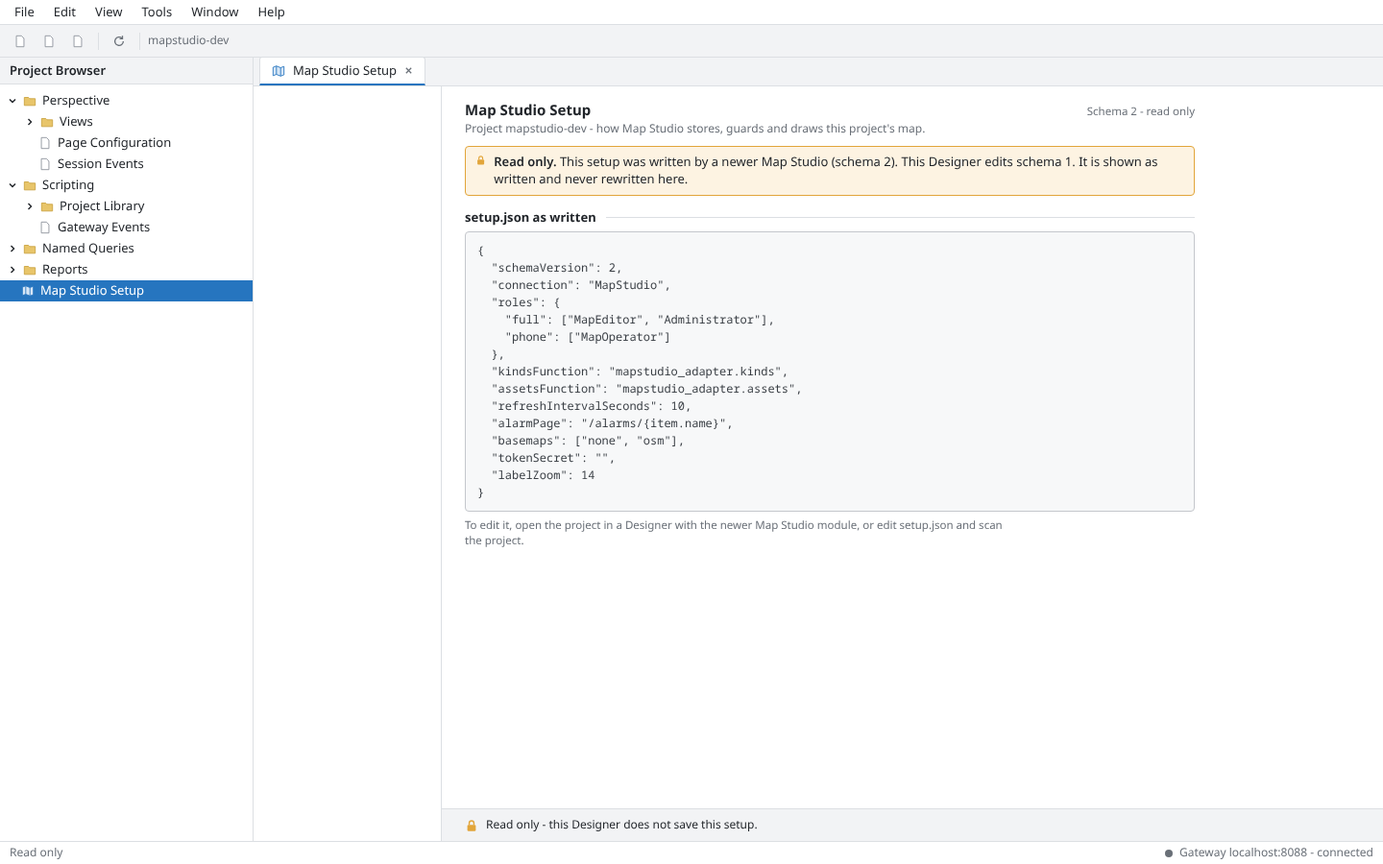
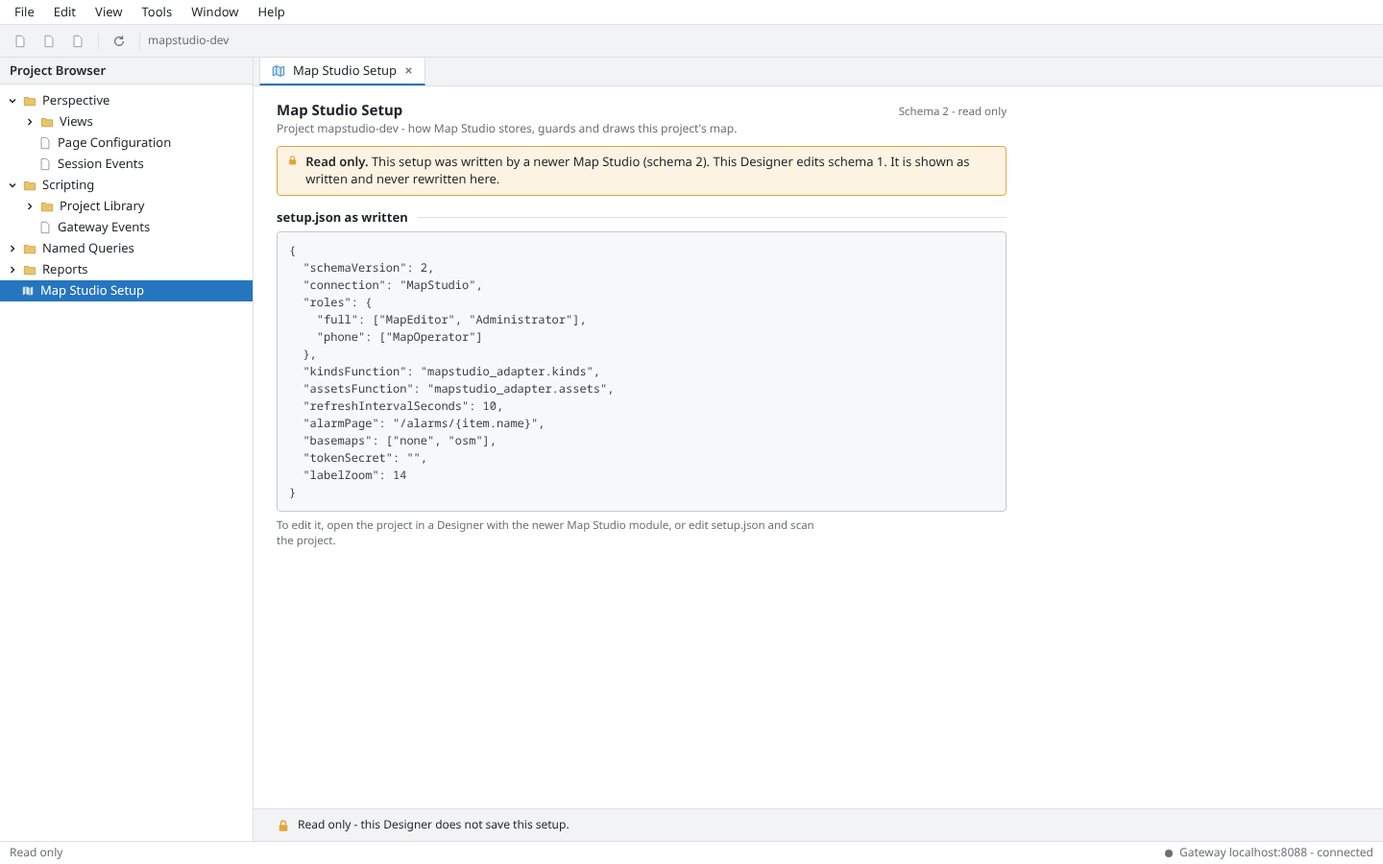
UX: Map Studio Setup tab drops the section list - the form alone
Owner decision 2026-10-27: the form fits one Designer window and the
footer counts reasons and warnings, so the left section list only added a
column. The footer's "N reasons left" scrolls to the first reason.
Mockup and all eight state PNGs re-rendered at 1440 x 900; EXPERIENCE.md,
DESIGN.md (designer-section-list token removed) and the memlog updated.

Claude-Session: https://claude.ai/code/session_01DVAVWyHFvLKQeaRZ7Pw3zR

diff --git a/_bmad-output/initiative-flowmap/ux-map-studio/mockups/designer-setup-form.html b/_bmad-output/initiative-flowmap/ux-map-studio/mockups/designer-setup-form.html
@@ -11,7 +11,8 @@
    (designer-* tokens). The Swing form reads the keys; these hex values are only the
    mock's stand-ins for the Designer's light theme. Render one state with ?v=STATE:
    normal, reasons, unreachable, inherited, newer, picker, empty, new.
-   There is no create dialog: empty and new are the same tab. */
+   There is no create dialog: empty and new are the same tab.
+   No section list (owner, 2026-10-27): the tab body is the form alone, left aligned. */
 :root {
   --d-panel: #f2f3f5;          /* Panel.background */
   --d-surface: #ffffff;        /* TextField.background, Tree.background */
@@ -54,14 +55,8 @@ body { background: var(--d-panel); color: var(--d-text); font: 13px/1.35 var(--f
 .tabs { height: 30px; display: flex; align-items: flex-end; padding-left: 6px; border-bottom: 1px solid var(--d-divider); }
 .tab { height: 30px; padding: 0 12px; display: flex; align-items: center; gap: 8px; background: var(--d-surface); border: 1px solid var(--d-divider); border-bottom: 2px solid var(--d-accent); border-top-left-radius: 3px; border-top-right-radius: 3px; }
 .tab .x { color: var(--d-text-2); }
-.tabbody { flex: 1; display: grid; grid-template-columns: 196px 1fr; min-height: 0; background: var(--d-surface); }
-.cats { border-right: 1px solid var(--d-divider); padding: 10px 0; background: var(--d-surface); }
-.cats div { height: 26px; padding: 0 12px; display: flex; align-items: center; justify-content: space-between; }
-.cats .on { background: var(--d-accent-tint); }
-.cats .count { display: inline-flex; align-items: center; gap: 3px; font-size: 12px; }
-.cats .count.err { color: var(--d-error); } .cats .count.warn { color: var(--d-warning); }
-.cats.off div { color: var(--d-text-2); }
-.formwrap { display: flex; flex-direction: column; min-height: 0; }
+.tabbody { flex: 1; display: flex; flex-direction: column; min-height: 0; background: var(--d-surface); }
+.formwrap { flex: 1; display: flex; flex-direction: column; min-height: 0; }
 .scroll { flex: 1; overflow: hidden; position: relative; padding: 14px 24px 0 24px; }
 .scrollbar { position: absolute; right: 2px; top: 4px; width: 8px; height: 82%; border-radius: 4px; background: #cfd3d8; display: none; }
 .hdr { display: flex; align-items: baseline; justify-content: space-between; max-width: 760px; }
@@ -129,6 +124,7 @@ section h2::after { content: ''; flex: 1; height: 1px; background: var(--d-divid
 .newtag i { width: 7px; height: 7px; border-radius: 50%; background: var(--d-accent); display: inline-block; }
 .footer .link { margin-left: auto; color: var(--d-accent); white-space: nowrap; }
 .footer .note { color: var(--d-text-2); }
+.footer .jump { text-decoration: underline; text-underline-offset: 2px; cursor: pointer; }
 .footer span { white-space: nowrap; }
 .ctxmenu { position: absolute; background: var(--d-surface); border: 1px solid var(--d-border); border-radius: 4px; box-shadow: 0 4px 14px rgba(0,0,0,.16); padding: 4px 0; font-size: 12.5px; z-index: 5; width: 168px; }
 .ctxmenu div { height: 24px; padding: 0 12px; display: flex; align-items: center; }
@@ -172,7 +168,7 @@ const base = {
   basemaps: { none: true, osm: true, satellite: false, mapbox: false },
   alarm: { v: '/alarms/{item.name}', state: 'ok' },
   secretProvider: '', secretName: '',
-  msgs: {}, counts: {},
+  msgs: {},
 };
 const states = {
   normal: {},
@@ -189,7 +185,6 @@ const states = {
       phone: [['err', 'MapOperator is listed twice.']],
       refresh: [['err', 'refreshIntervalSeconds must be a whole number from 1 to 3600, not 0.']],
     },
-    counts: { store: ['warn', 1], who: ['err', 1, 1], kinds: ['err', 1] },
   },
   unreachable: { gwDown: true, connection: { v: 'MapStudio', state: 'down' } },
   newer: { readonly: true },
@@ -203,7 +198,6 @@ const states = {
     assets: { v: '', state: '' },
     alarm: { v: '', state: '' },
     msgs: { connection: [['err', 'Name the database connection Map Studio stores the map in.']] },
-    counts: { store: ['err', 1] },
   },
 };
 const v = new URLSearchParams(location.search).get('v') || 'normal';
@@ -234,13 +228,6 @@ function chips(list, key, opts = {}) {
 function row(label, ctl, help, key, top) {
   return `<div class="row"><label>${label}</label><div><div class="ctl">${ctl}</div>${msgs(key)}${help ? `<div class="help">${help}</div>` : ''}</div></div>`;
 }
-function catCount(k) {
-  const c = S.counts[k];
-  if (!c) return '';
-  if (c.length === 3) return `<span class="count err">${I.err}${c[1]}</span><span class="count warn" style="margin-left:6px">${I.warn}${c[2]}</span>`;
-  return `<span class="count ${c[0]}">${c[0] === 'err' ? I.err : I.warn}${c[1]}</span>`;
-}
-function wrapCount(k) { const h = catCount(k); return h ? `<span style="display:inline-flex">${h}</span>` : ''; }
 
 const reasonsLeft = Object.values(S.msgs).flat().filter(m => m[0] === 'err').length;
 const warningsLeft = Object.values(S.msgs).flat().filter(m => m[0] === 'warn').length;
@@ -304,15 +291,12 @@ if (S.none) {
 const footer = S.none
   ? `<div class="footer"><span class="note">No setup in this project.</span></div>`
   : S.isNew
-  ? `<div class="footer err">${I.err}<span>${reasonsLeft} reason left - this setup is not saved until it is fixed.</span><span class="note" style="margin-left:6px">File &gt; Save shows the Designer's standard save failure.</span><span class="link">Discard new setup</span></div>`
+  ? `<div class="footer err">${I.err}<span><span class="jump" title="Go to the first reason">${reasonsLeft} reason left</span> - this setup is not saved until it is fixed.</span><span class="note" style="margin-left:6px">File &gt; Save shows the Designer's standard save failure.</span><span class="link">Discard new setup</span></div>`
   : S.readonly
   ? `<div class="footer">${I.lock}<span>Read only - this Designer does not save this setup.</span></div>`
   : reasonsLeft
-    ? `<div class="footer err">${I.err}<span>${reasonsLeft} reasons left - this setup is not saved until they are fixed.</span><span style="color:var(--d-text-2);margin-left:6px">${warningsLeft} warnings do not stop a save.</span></div>`
+    ? `<div class="footer err">${I.err}<span><span class="jump" title="Go to the first reason">${reasonsLeft} reasons left</span> - this setup is not saved until they are fixed.</span><span style="color:var(--d-text-2);margin-left:6px">${warningsLeft} warnings do not stop a save.</span></div>`
     : `<div class="footer">${I.check}<span>Saves with the project (File &gt; Save).</span></div>`;
-
-const cats = (S.readonly || S.none) ? '' : [['store', 'Map store'], ['who', 'Who can edit'], ['kinds', 'Kinds and assets'], ['map', 'Map']]
-  .map(([k, l], i) => `<div class="${i === 0 ? 'on' : ''}"><span>${l}</span>${wrapCount(k)}</div>`).join('');
 
 document.getElementById('app').innerHTML = `
 <div class="menubar"><span>File</span><span>Edit</span><span>View</span><span>Tools</span><span>Window</span><span>Help</span></div>
@@ -335,8 +319,7 @@ document.getElementById('app').innerHTML = `
   </div>
   <div class="workspace">
     <div class="tabs"><div class="tab">${I.map}<span>Map Studio Setup</span><span class="x">${I.x}</span></div></div>
-    <div class="tabbody" style="${S.none ? 'grid-template-columns:1fr' : ''}">
-      <div class="cats ${S.readonly ? 'off' : ''}" style="${S.none ? 'display:none' : ''}">${cats}</div>
+    <div class="tabbody">
       <div class="formwrap">
         <div class="scroll" id="scroll">
           <div class="hdr"><div><h1>Map Studio Setup</h1><div class="sub">Project mapstudio-dev - how Map Studio stores, guards and draws this project's map.</div>${S.isNew ? '<div class="newtag"><i></i>New setup - saves with the project</div>' : ''}</div><span class="schema">${S.none ? '' : S.readonly ? 'Schema 2 - read only' : 'Schema version 1'}</span></div>
@@ -351,7 +334,9 @@ document.getElementById('app').innerHTML = `
 <div class="statusbar"><span>${S.readonly ? 'Read only' : S.isNew ? 'New Map Studio setup - not saved yet' : 'Ready'}</span><span class="gw ${S.gwDown ? 'down' : ''}">${I.gw}${S.gwDown ? 'Gateway localhost:8088 - not reachable' : 'Gateway localhost:8088 - connected'}</span></div>`;
 
 const sc = document.getElementById('scroll');
-if (sc.scrollHeight > sc.clientHeight + 4) document.getElementById('sb').style.display = 'block';
+function fitScrollbar() { document.getElementById('sb').style.display = sc.scrollHeight > sc.clientHeight + 4 ? 'block' : 'none'; }
+fitScrollbar();
+if (document.fonts) document.fonts.ready.then(fitScrollbar);
 
 if (S.picker) {
   const ch = document.getElementById('chips-full').getBoundingClientRect();

diff --git a/_bmad-output/initiative-flowmap/ux-map-studio/EXPERIENCE.md b/_bmad-output/initiative-flowmap/ux-map-studio/EXPERIENCE.md
@@ -246,10 +246,10 @@ The Map Studio Setup tab in the Ignition 8.3 Designer (owner, 2026-10-27, after 
 ### Layout
 
 - **Header**: "Map Studio Setup", a subline naming the project, and the schema version as small read-only text on the right ("Schema version 1"). It is never a field.
-- **Section list** on the left, as Project Properties' category list: Map store, Who can edit, Kinds and assets, Map. Unlike Project Properties it does not switch pages: the four sections are one short scrolling form, and a click scrolls to its section. Each entry shows its count of reasons (error glyph) and warnings (warning glyph), so a reason below the fold is never hidden.
-- **Form**: the four sections in that order, left aligned, at most 760 px wide; fields keep their width on any tab width.
-- **Footer** across the tab: "Saves with the project (File > Save)."; with reasons, "N reasons left - this setup is not saved until they are fixed." and "N warnings do not stop a save."; read only, "Read only - this Designer does not save this setup."; a new setup, see New setup under States. The tab has no OK, Apply, Create or Cancel: it saves with the project, as now.
-- **No horizontal scroll bar, ever.** The form is at most 760 px wide and wraps: help, reasons and warnings wrap at 560 px, and on a tab narrower than the form a field pair (Map token) and a row's label and control stack instead of overflowing. Only the form scrolls, vertically, when the window is short; the section list, the header's new-setup marker and the footer stay in view.
+- **No section list** (owner, 2026-10-27). The tab holds the form alone, left aligned in the tab with the tab's padding: the form is short (it fits one Designer window) and the footer already counts reasons and warnings, so a list of sections would only add a column.
+- **Form**: the four sections Map store, Who can edit, Kinds and assets, Map, in that order, each with its heading inside the form as Project Properties' "Tag Settings"; left aligned, at most 760 px wide; fields keep their width on any tab width.
+- **Footer** across the tab: "Saves with the project (File > Save)."; with reasons, "N reasons left - this setup is not saved until they are fixed." and "N warnings do not stop a save."; read only, "Read only - this Designer does not save this setup."; a new setup, see New setup under States. Where a field has a reason, clicking "N reasons left" scrolls the form to the first reason and focuses its field; this replaces the section list's per-section counts. The tab has no OK, Apply, Create or Cancel: it saves with the project, as now.
+- **No horizontal scroll bar, ever.** The form is at most 760 px wide and wraps: help, reasons and warnings wrap at 560 px, and on a tab narrower than the form a field pair (Map token) and a row's label and control stack instead of overflowing. Only the form scrolls, vertically, when the window is short; the header's new-setup marker and the footer stay in view.
 
 ### Fields
 
@@ -269,10 +269,10 @@ Every list is a suggestion: **typing is always allowed**, and what is typed is s
 
 Rules:
 
-- **Dialogs only for what is not on screen.** A reason or warning lives beside its field, in the section list count and in the footer; it is **never repeated in a dialog**. A Map Studio dialog appears only for something the tab cannot show: a write that failed on disk, Start from defaults asking first. A refused save is the footer line plus the Designer's own standard save failure, which names the Map Studio Setup tab and not the reasons [ASSUMPTION: the wording of the Designer's save failure is the Designer's; the module only refuses the commit].
+- **Dialogs only for what is not on screen.** A reason or warning lives beside its field and in the footer count; it is **never repeated in a dialog**. A Map Studio dialog appears only for something the tab cannot show: a write that failed on disk, Start from defaults asking first. A refused save is the footer line plus the Designer's own standard save failure, which names the Map Studio Setup tab and not the reasons [ASSUMPTION: the wording of the Designer's save failure is the Designer's; the module only refuses the commit].
 - **Reasons and warnings.** A reason stops the save and keeps the Gateway's wording (the input checks and `Setup.read`'s messages, unchanged, beside the field they name; a message naming no field shows under the header). A warning says something the Gateway would accept but that will not work yet; it never stops a save. Warnings are the form's only new words; they come from the lists, so they show only when the list loaded.
 - **Status slot** after each list field: a green check when the value is found in its list ("Found on the Gateway" or "Found in this project" as the tooltip), the warning glyph when not, a grey cloud when the list is unavailable, nothing when the field is empty.
-- **Reasons update as you type**, as now; the section list counts and the footer follow.
+- **Reasons update as you type**, as now; the footer counts follow.
 - **Role picker.** Typing filters the provider's roles; roles already in the field show with a check and "added"; Enter adds the highlighted role, or the typed text when nothing matches; Backspace in the empty input removes the last chip; each chip's cross removes it. A role listed twice in the file shows both chips, the second with the reason edge, until one is removed. An identity provider that cannot list its roles (an OIDC or SAML provider gives roles in its claims) shows "This identity provider does not list its roles. Type them." in the list and no unknown-role warnings [ASSUMPTION: which 8.3 providers can list roles].
 - **Connection list** shows each connection with its type; a connection that does not exist yet can be typed and is kept with the warning, since Map Studio waits for it (`docs/contract.md`, the map store).
 - **Function list** shows every function of the project library, inherited scripts included, as its full dotted path (`mapstudio.kinds.get`); picking one fills the field.
@@ -285,20 +285,20 @@ Rules:
 | State | Treatment |
 |---|---|
 | Normal | Values with their found checks; footer "Saves with the project (File > Save)." See [designer-setup-form-normal.png](mockups/designer-setup-form-normal.png). |
-| Reasons and warnings | Each beside its field (reason in `{colors.designer-error}`, warning in `{colors.designer-warning}`, each with its glyph); the field takes the matching edge; the section list counts them; the footer counts the reasons. A project save with reasons left does not save this setup: the footer says so and the Designer shows its standard save failure; no Map Studio dialog repeats the reasons (what the Designer does with the rest of that save is still the owner's check in `docs/setup-editor.md`). See [designer-setup-form-reasons.png](mockups/designer-setup-form-reasons.png) (refresh 0, a role listed twice, a connection the Gateway does not have, a role the provider does not have). |
+| Reasons and warnings | Each beside its field (reason in `{colors.designer-error}`, warning in `{colors.designer-warning}`, each with its glyph); the field takes the matching edge; the footer counts the reasons and the warnings, and a click on "N reasons left" scrolls to the first reason. A project save with reasons left does not save this setup: the footer says so and the Designer shows its standard save failure; no Map Studio dialog repeats the reasons (what the Designer does with the rest of that save is still the owner's check in `docs/setup-editor.md`). See [designer-setup-form-reasons.png](mockups/designer-setup-form-reasons.png) (refresh 0, a role listed twice, a connection the Gateway does not have, a role the provider does not have). |
 | Gateway not reachable | A warning banner under the header: "Gateway not reachable - lists unavailable, typing still works." with "Try again". Database connections, roles and secret providers show "List unavailable" when opened and a grey cloud in the status slot; their warnings are not shown (nothing to compare with). Functions and pages still list and check. Reasons still show: they need no Gateway. Saving is unchanged. See [designer-setup-form-unreachable.png](mockups/designer-setup-form-unreachable.png). |
 | List loading | The opened list shows "Loading..." with a spinner; the field stays editable. |
 | Inherited | An info banner: "Inherited from template-base. Saving makes this project's own copy." (existing wording); the Project Browser node reads "(inherited)"; the form is editable. See [designer-setup-form-inherited.png](mockups/designer-setup-form-inherited.png). |
-| Inherited, not overridable | A lock banner: "Inherited from template-base, and that project does not allow overriding it. Read only." Fields show their values, disabled; refresh buttons and the section list stay; footer read only. |
-| Newer schema | A lock banner: "Read only. This setup was written by a newer Map Studio (schema 2). This Designer edits schema 1. It is shown as written and never rewritten here."; the header reads "Schema 2 - read only"; the form is replaced by "setup.json as written" in a read-only monospace box, since this Designer cannot be sure what a newer field means; the section list is empty. See [designer-setup-form-newer.png](mockups/designer-setup-form-newer.png). |
+| Inherited, not overridable | A lock banner: "Inherited from template-base, and that project does not allow overriding it. Read only." Fields show their values, disabled; refresh buttons stay; footer read only. |
+| Newer schema | A lock banner: "Read only. This setup was written by a newer Map Studio (schema 2). This Designer edits schema 1. It is shown as written and never rewritten here."; the header reads "Schema 2 - read only"; the form is replaced by "setup.json as written" in a read-only monospace box, since this Designer cannot be sure what a newer field means. See [designer-setup-form-newer.png](mockups/designer-setup-form-newer.png). |
 | Unreadable file | As newer schema, with "This setup cannot be read: <reason>" and the **Start from defaults** button, which asks first (existing wording). |
-| No setup (empty) | Opening Map Studio Setup opens the tab in an empty state: no section list, "No Map Studio setup", "This project has no Map Studio setup yet. The map store is unavailable until it has one.", one primary button **Create setup**, and the help "Create setup fills this tab with the defaults. Nothing is written until File > Save."; the node reads "(none)"; footer "No setup in this project." See [designer-setup-form-empty.png](mockups/designer-setup-form-empty.png). |
+| No setup (empty) | Opening Map Studio Setup opens the tab in an empty state: "No Map Studio setup", "This project has no Map Studio setup yet. The map store is unavailable until it has one.", one primary button **Create setup**, and the help "Create setup fills this tab with the defaults. Nothing is written until File > Save."; the node reads "(none)"; footer "No setup in this project." See [designer-setup-form-empty.png](mockups/designer-setup-form-empty.png). |
 | New setup | Create setup fills the same tab with the defaults (full-editing role MapEditor, phone-editing role MapOperator, refresh 10 seconds, basemaps None and OpenStreetMap, everything else empty) and focuses Database connection. The header carries the marker "New setup - saves with the project"; the node reads "(new, unsaved)". Reasons show beside their fields as in any edit (an empty connection: "Name the database connection Map Studio stores the map in."). Nothing is written until File > Save. With reasons left the footer reads "1 reason left - this setup is not saved until it is fixed." with "File > Save shows the Designer's standard save failure." and the save is refused that way only. The footer's **Discard new setup** link returns the tab to the empty state (nothing was written, so it asks nothing). After a successful save the marker goes and the tab is the normal state. See [designer-setup-form-new.png](mockups/designer-setup-form-new.png). |
 
 ### Accessibility
 
 - Every control has its label bound to it (Swing `setLabelFor`), so a screen reader names it; the help text is its description.
-- Tab order follows the form top to bottom; refresh buttons and the "{ }" button are in it; the section list is reached with Ctrl+Tab or a click [ASSUMPTION].
+- Tab order follows the form top to bottom; refresh buttons and the "{ }" button are in it. The footer's "N reasons left" is in it too, last, and Enter on it goes to the first reason [ASSUMPTION].
 - Reasons, warnings and found checks are a glyph and words, never colour alone; the check's meaning is in its tooltip and accessible name.
 - Everything is doable by keyboard: combos open with Alt+Down, chips add with Enter and remove with Backspace.
 
@@ -397,6 +397,6 @@ Failure: CTB1's comms are lost: the icon has a dashed ring and "Comms lost", the
 7. **Toast timing** and Undo bar lifetime.
 8. **Map token storage (Designer setup form).** Schema 1 has one text field, `tokenSecret`, but the owner's form picks a secret provider and a secret name. Recommended: keep schema 1 and store `"<provider>/<name>"` in `tokenSecret` (the Gateway's rule, text, already accepts it; nothing reads the token yet since Mapbox is deferred), documented in `docs/setup.md`; the alternative, a `tokenSecretProvider` key, is refused by schema 1 and needs schema 2. Owner and architecture to decide.
 9. **Designer lists from the Gateway.** Whether the Designer can list database connections with their type, an identity provider's roles, and a secret provider's secret names (names only) is unverified; until it is, those fields fall back to typing with no warnings, as in the Gateway not reachable state.
-10. **Section list.** One scrolling form with a section list that scrolls and counts (recommended, so a reason is never on a hidden page), or Project Properties' page switching. Owner to confirm.
+10. **Section list.** Resolved by the owner on 2026-10-27: no section list and no page switching. The tab is the form alone; the footer counts reasons and warnings, and "N reasons left" scrolls to the first reason.
 
 **Resolved by the owner on 2026-10-27:** phone move is the crosshair (PRD UJ-4 and FR-27 updated to match); first run is the checklist only, FR-36's tour dropped; Mapbox (FR-32) and reference layers (FR-26) deferred; no Publish step confirmed; Needs you shows "All OK" in neutral; Direction A collapses the list panel below about 1280 px; Direction A simplified first by the Filter button and the Details and Style tabs; line look per segment, deleting a line deletes its instruments with one undo, and a segment with no instruments draws normal (PRD section 9 questions 9 and 10).

diff --git a/_bmad-output/initiative-flowmap/ux-map-studio/DESIGN.md b/_bmad-output/initiative-flowmap/ux-map-studio/DESIGN.md
@@ -34,7 +34,7 @@ colors:
   # UIManager keys of the Designer's look and feel, read at runtime so the form follows the
   # Designer's light or dark theme. Hex values in mockups/designer-setup-form.html are stand-ins.
   designer-panel: 'UIManager Panel.background'
-  designer-surface: 'UIManager TextField.background'        # inputs, chip field, section list, tab body
+  designer-surface: 'UIManager TextField.background'        # inputs, chip field, tab body
   designer-border: 'UIManager Component.borderColor'
   designer-divider: 'UIManager Separator.foreground'        # section heading rule, list edge, footer edge
   designer-text: 'UIManager Label.foreground'
@@ -138,14 +138,12 @@ spacing:
   designer-field: 340px          # combo boxes and text fields (never the tab's width)
   designer-chip-field: 420px     # role pickers
   designer-help-width: 560px     # help, reasons and warnings wrap here
-  designer-section-list: 196px   # the left section list of the setup tab
   designer-row-gap: 10px
   designer-section-gap: 14px
   designer-form-max: 760px       # the whole form, left aligned; the rest of a wide tab stays empty
 components:
   designer-setup-form:
     background: '{colors.designer-surface}'
-    section-list-width: '{spacing.designer-section-list}'
     section-heading: '{typography.designer-heading}'
     section-rule: '1px {colors.designer-divider}'
     label: '{typography.designer-body}'
@@ -383,7 +381,7 @@ Chosen layout: Direction A, **Docked studio** ([editor-direction-a-1366.png](moc
 
 The final key screens are in [key-screens.html](mockups/key-screens.html) (nine screens, one picker) with a PNG per state in `mockups/`, linked at the sections below.
 
-**The Designer is the one exception to the host theme.** The Map Studio Setup tab in the Ignition 8.3 Designer (owner, 2026-10-27) is a Swing form, not Perspective, so it wears the Designer's own look: the light theme, font, spacing and controls of Ignition's Project Properties dialog (left section list, bold section headings, labels left, dropdowns with a refresh button, "Select one..." placeholders, a green check beside a valid field). It takes nothing from the web component's tokens. See [designer-setup-form-normal.png](mockups/designer-setup-form-normal.png) and the interactive [designer-setup-form.html](mockups/designer-setup-form.html) (`?v=normal|reasons|unreachable|inherited|newer|picker|empty|new`).
+**The Designer is the one exception to the host theme.** The Map Studio Setup tab in the Ignition 8.3 Designer (owner, 2026-10-27) is a Swing form, not Perspective, so it wears the Designer's own look: the light theme, font, spacing and controls of Ignition's Project Properties dialog (bold section headings, labels left, dropdowns with a refresh button, "Select one..." placeholders, a green check beside a valid field). It takes nothing from the web component's tokens. See [designer-setup-form-normal.png](mockups/designer-setup-form-normal.png) and the interactive [designer-setup-form.html](mockups/designer-setup-form.html) (`?v=normal|reasons|unreachable|inherited|newer|picker|empty|new`).
 
 ## Colors
 
@@ -431,7 +429,7 @@ A 4 px base: `{spacing.1}` 4, `{spacing.2}` 8, `{spacing.3}` 12, `{spacing.4}` 1
 
 **Phone (390 px)**: the map fills the page; one top bar (`{components.phone-top-bar}`, `{spacing.phone-float-inset}` from the edges) holds search and Needs you and expands on tap; zoom (plus, minus, Fit) top-right under the bar; Legend bottom-left; popups and the edit form are bottom sheets `{spacing.phone-float-inset}` from the sides that stop above the App Bar toggle. Side gutter `{spacing.page-gutter-phone}` for content, every target `{spacing.target-touch}`. See [key-screen-2-phone-sheet.png](mockups/key-screen-2-phone-sheet.png).
 
-**Designer setup form** (`{components.designer-setup-form}`): the setup tab is split into a `{spacing.designer-section-list}` section list on the left (Map store, Who can edit, Kinds and assets, Map, each with its count of reasons and warnings) and one scrolling form, left aligned and at most `{spacing.designer-form-max}` wide, so a 2000 px tab shows the same form as a 1440 px one with empty space to the right. No horizontal scroll bar: a narrower tab wraps the form; only the form scrolls vertically, with the section list and footer in view. Labels sit in a `{spacing.designer-label-column}` column; combo boxes and fields are `{spacing.designer-field}`, role pickers `{spacing.designer-chip-field}`, the refresh interval 96 px, all `{spacing.designer-control-height}` tall; help, reasons and warnings wrap at `{spacing.designer-help-width}`. Rows are `{spacing.designer-row-gap}` apart, sections `{spacing.designer-section-gap}`. A footer line across the bottom of the tab says whether the setup saves.
+**Designer setup form** (`{components.designer-setup-form}`): the setup tab holds one scrolling form and nothing beside it (no section list, owner 2026-10-27): the section headings Map store, Who can edit, Kinds and assets and Map sit inside the form, which is left aligned in the tab with the tab's 24 px padding and at most `{spacing.designer-form-max}` wide, so a 2000 px tab shows the same form as a 1440 px one with empty space to the right. No horizontal scroll bar: a narrower tab wraps the form; only the form scrolls vertically, with the footer in view. Labels sit in a `{spacing.designer-label-column}` column; combo boxes and fields are `{spacing.designer-field}`, role pickers `{spacing.designer-chip-field}`, the refresh interval 96 px, all `{spacing.designer-control-height}` tall; help, reasons and warnings wrap at `{spacing.designer-help-width}`. Rows are `{spacing.designer-row-gap}` apart, sections `{spacing.designer-section-gap}`. A footer line across the bottom of the tab says whether the setup saves.
 
 ## Elevation & Depth
 
@@ -487,7 +485,7 @@ Visual specs. Behaviour lives in EXPERIENCE.md, Component Patterns.
 - **Instrument marker** - `{components.instrument-marker}`: a tap, meter or line valve sits on its line [ASSUMPTION: a 24 px neutral disc with its glyph and the marker halo, name below at 11 px; the stale treatment is the dashed ring and the "Stale" word chip as for markers]; highlighted instruments take the marker's selected ring. The `meter` instrument glyph is new and distinct from meter station.
 - **Phone crosshair** - `{components.phone-crosshair}`: a fixed 64 px crosshair at the map centre: a `selection` ring on a panel fill with the kind glyph inside and four `attention` ticks. A floating card at the top names the move ("Moving P14 - Drag the map to put the crosshair on the pad. 38 m from where it was."), the old position stays as a faded dashed marker labelled "Was here", and a bottom bar holds the coordinates, Cancel and a primary Done, both 44 px. See [key-screen-2-phone-move.png](mockups/key-screen-2-phone-move.png).
 
-- **Designer setup form** - `{components.designer-setup-form}`, a Swing tab in the Ignition 8.3 Designer (owner, 2026-10-27). Header: "Map Studio Setup" in `{typography.designer-title}`, a subline naming the project, and on the right the schema version as small read-only text ("Schema version 1"; "Schema 2 - read only"), never a field. Banners under the header (`{components.designer-banner}`): info for "Inherited from <project>", warning for "Gateway not reachable - lists unavailable, typing still works." (cloud glyph, "Try again" link) and for the read-only states (lock glyph). Sections with a `{typography.designer-heading}` title and a rule to the right, as Project Properties' "Tag Settings". Rows: label left; the control (an editable combo box with a chevron, a refresh button for a Gateway list, then a status slot: green check when found, warning glyph when not, grey cloud when the list is unavailable); under the control the reasons in `designer-error` with the error glyph, the warnings in `designer-warning` with the warning glyph, then the help in `{typography.designer-help}` `designer-text-secondary`. Function names, page paths and secret names in monospace. Role pickers are chip fields (`{components.designer-chip}`): one chip per role with a remove cross, an "Add a role..." input, a chevron that opens the provider's roles, a refresh button; an unknown role's chip takes the warning edge and glyph, a role listed twice takes the reason edge and glyph. The role list popup heads "Roles of identity provider default matching "Ma"", lists roles already added with a check and "added", highlights the next one, and ends with a line on typing a name it does not have. Basemaps are four checkboxes in a row (None, OpenStreetMap, Satellite, Mapbox). Alarm page has a "{ }" button that inserts a placeholder. Map token is a secret provider combo ("Select one...") and a secret name combo side by side with one refresh button. The newer-schema state replaces the form with "setup.json as written" in a read-only monospace box. Footer: a check and "Saves with the project (File > Save)."; with reasons, the error glyph and "2 reasons left - this setup is not saved until they are fixed." plus "2 warnings do not stop a save." in secondary text; read only, a lock and "Read only - this Designer does not save this setup." No OK, Apply, Create or Cancel in the tab, and no create dialog. Empty state (no setup): no section list; a map glyph on an info-tint tile, "No Map Studio setup" in `{typography.designer-heading}`, one line of explanation, one primary button "Create setup" in `designer-accent` with white text, help below. New setup: the same form with the defaults, and under the header subline a small marker "New setup - saves with the project" (accent dot, info-tint fill, accent-tint edge); the footer adds a "Discard new setup" link at its right in `designer-accent`. See [-empty](mockups/designer-setup-form-empty.png), [-new](mockups/designer-setup-form-new.png), [-normal](mockups/designer-setup-form-normal.png), [-reasons](mockups/designer-setup-form-reasons.png), [-unreachable](mockups/designer-setup-form-unreachable.png), [-inherited](mockups/designer-setup-form-inherited.png), [-newer](mockups/designer-setup-form-newer.png), [-picker](mockups/designer-setup-form-picker.png).
+- **Designer setup form** - `{components.designer-setup-form}`, a Swing tab in the Ignition 8.3 Designer (owner, 2026-10-27). Header: "Map Studio Setup" in `{typography.designer-title}`, a subline naming the project, and on the right the schema version as small read-only text ("Schema version 1"; "Schema 2 - read only"), never a field. Banners under the header (`{components.designer-banner}`): info for "Inherited from <project>", warning for "Gateway not reachable - lists unavailable, typing still works." (cloud glyph, "Try again" link) and for the read-only states (lock glyph). Sections with a `{typography.designer-heading}` title and a rule to the right, as Project Properties' "Tag Settings". Rows: label left; the control (an editable combo box with a chevron, a refresh button for a Gateway list, then a status slot: green check when found, warning glyph when not, grey cloud when the list is unavailable); under the control the reasons in `designer-error` with the error glyph, the warnings in `designer-warning` with the warning glyph, then the help in `{typography.designer-help}` `designer-text-secondary`. Function names, page paths and secret names in monospace. Role pickers are chip fields (`{components.designer-chip}`): one chip per role with a remove cross, an "Add a role..." input, a chevron that opens the provider's roles, a refresh button; an unknown role's chip takes the warning edge and glyph, a role listed twice takes the reason edge and glyph. The role list popup heads "Roles of identity provider default matching "Ma"", lists roles already added with a check and "added", highlights the next one, and ends with a line on typing a name it does not have. Basemaps are four checkboxes in a row (None, OpenStreetMap, Satellite, Mapbox). Alarm page has a "{ }" button that inserts a placeholder. Map token is a secret provider combo ("Select one...") and a secret name combo side by side with one refresh button. The newer-schema state replaces the form with "setup.json as written" in a read-only monospace box. Footer: a check and "Saves with the project (File > Save)."; with reasons, the error glyph and "2 reasons left - this setup is not saved until they are fixed." ("2 reasons left" underlined, as it scrolls to the first reason on click) plus "2 warnings do not stop a save." in secondary text; read only, a lock and "Read only - this Designer does not save this setup." No OK, Apply, Create or Cancel in the tab, and no create dialog. Empty state (no setup): a map glyph on an info-tint tile, "No Map Studio setup" in `{typography.designer-heading}`, one line of explanation, one primary button "Create setup" in `designer-accent` with white text, help below. New setup: the same form with the defaults, and under the header subline a small marker "New setup - saves with the project" (accent dot, info-tint fill, accent-tint edge); the footer adds a "Discard new setup" link at its right in `designer-accent`. See [-empty](mockups/designer-setup-form-empty.png), [-new](mockups/designer-setup-form-new.png), [-normal](mockups/designer-setup-form-normal.png), [-reasons](mockups/designer-setup-form-reasons.png), [-unreachable](mockups/designer-setup-form-unreachable.png), [-inherited](mockups/designer-setup-form-inherited.png), [-newer](mockups/designer-setup-form-newer.png), [-picker](mockups/designer-setup-form-picker.png).
 
 ## Do's and Don'ts
 

diff --git a/_bmad-output/initiative-flowmap/ux-map-studio/.memlog.md b/_bmad-output/initiative-flowmap/ux-map-studio/.memlog.md
@@ -75,3 +75,5 @@ updated: 2026-10-26T23:16
 - (assumption) The Designer's standard save failure names the Map Studio Setup tab, not the reasons; its wording is the Designer's, the module only refuses the commit. Owner to confirm in the live Designer.
 - (change) designer-setup-form.html gains ?v=empty and ?v=new; designer-setup-form-empty.png and -new.png rendered at 1440 x 900. EXPERIENCE.md Designer Setup Form: 'one form, one place' rule, no-horizontal-scroll layout rule, 'dialogs only for what is not on screen' rule, states No setup (empty) and New setup, reasons state no longer names a dialog, IA row updated; DESIGN.md designer setup form: create dialog removed, empty state and new marker described; ux-map-studio.md list updated. docs/setup-editor.md (Opening and creating; Saving) still describes the dialog: for the developer's follow-up story.
 - 2026-10-27 decision (owner): Double-clicking the Map Studio Setup node is the only way in. A project has exactly one setup, so the node needs no right-click menu (no Create setup or Open setup items); Create setup lives only in the tab's empty state.
+- (decision) Owner, 2026-10-27: no section list in the Map Studio Setup tab. The tab is the form alone, left aligned with the existing padding, at most 760 px; the section headings (Map store, Who can edit, Kinds and assets, Map) stay inside the form. Reason: the form is short (fits one Designer window) and the footer already counts reasons left and warnings, so the list only added a column. Where a field has a reason, clicking the footer's 'N reasons left' scrolls to the first reason and focuses its field, replacing the list's per-section counts. Answers Engineering Review Item 10.
+- (change) designer-setup-form.html: section list removed in every state (tab body is the form alone; counts data dropped; footer 'N reasons left' underlined as a jump; scroll bar now re-measured after fonts load); all eight designer-setup-form-*.png re-rendered at 1440 x 900 and checked (picker popup still anchors under the chip field). EXPERIENCE.md Designer Setup Form layout, rules, states, accessibility and Review Item 10 updated; DESIGN.md designer-section-list spacing token and section-list-width component token removed, layout and component text updated.
